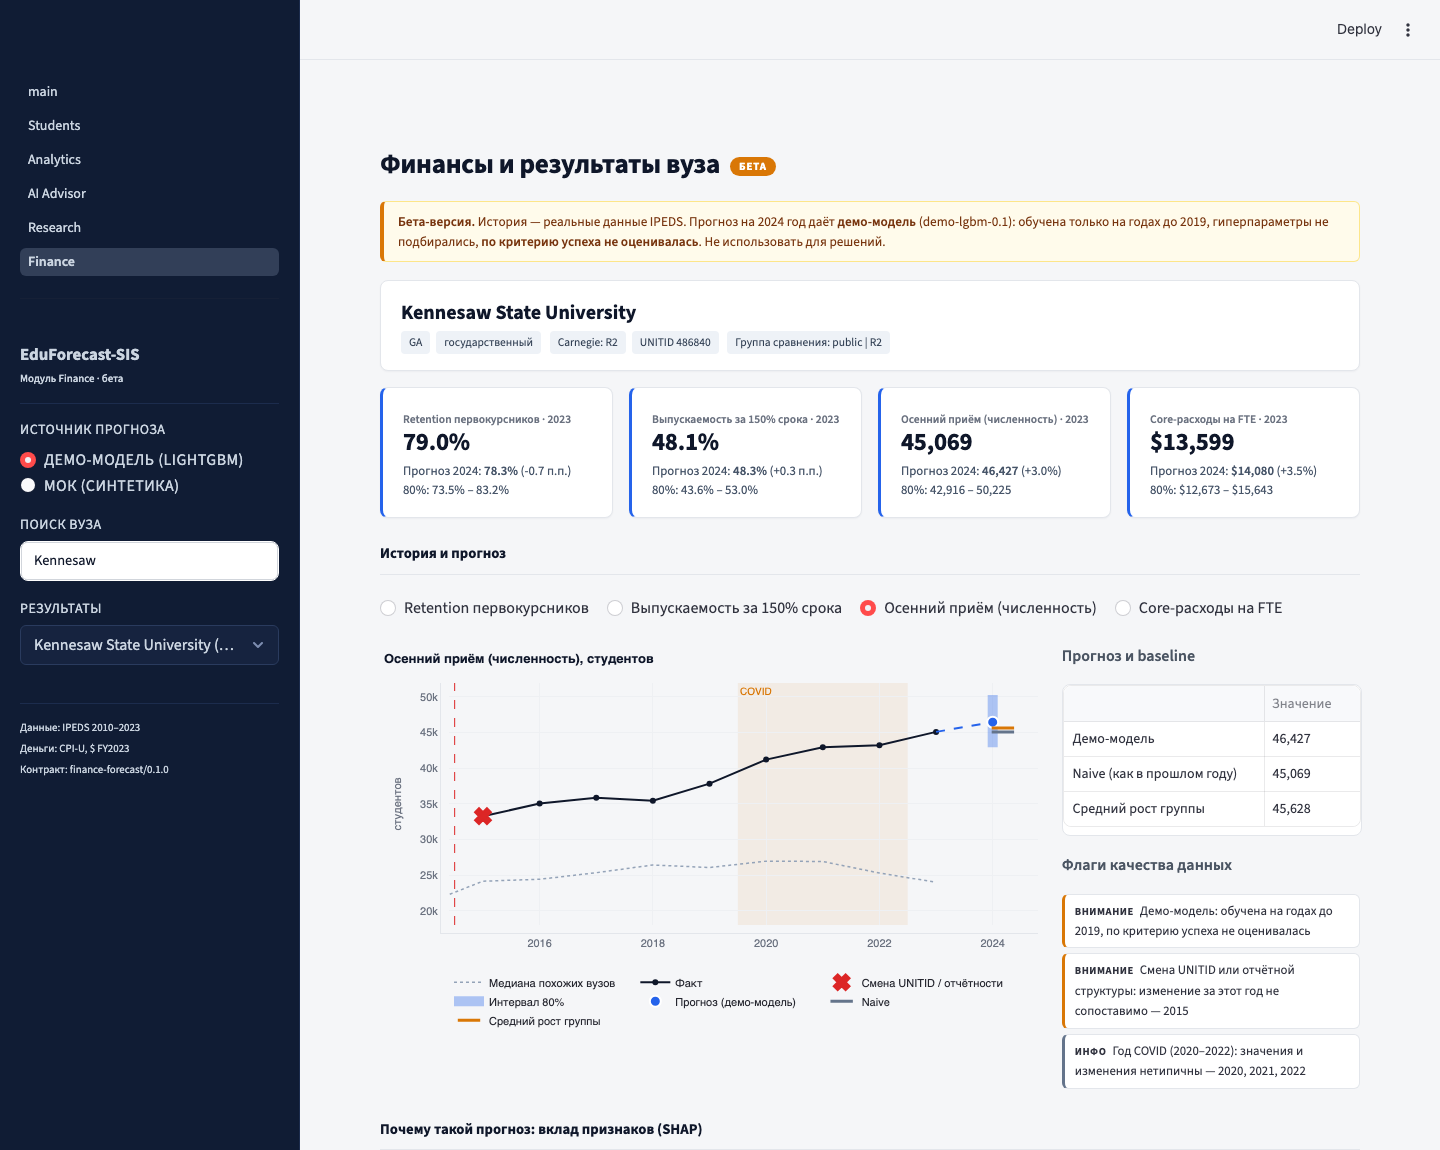
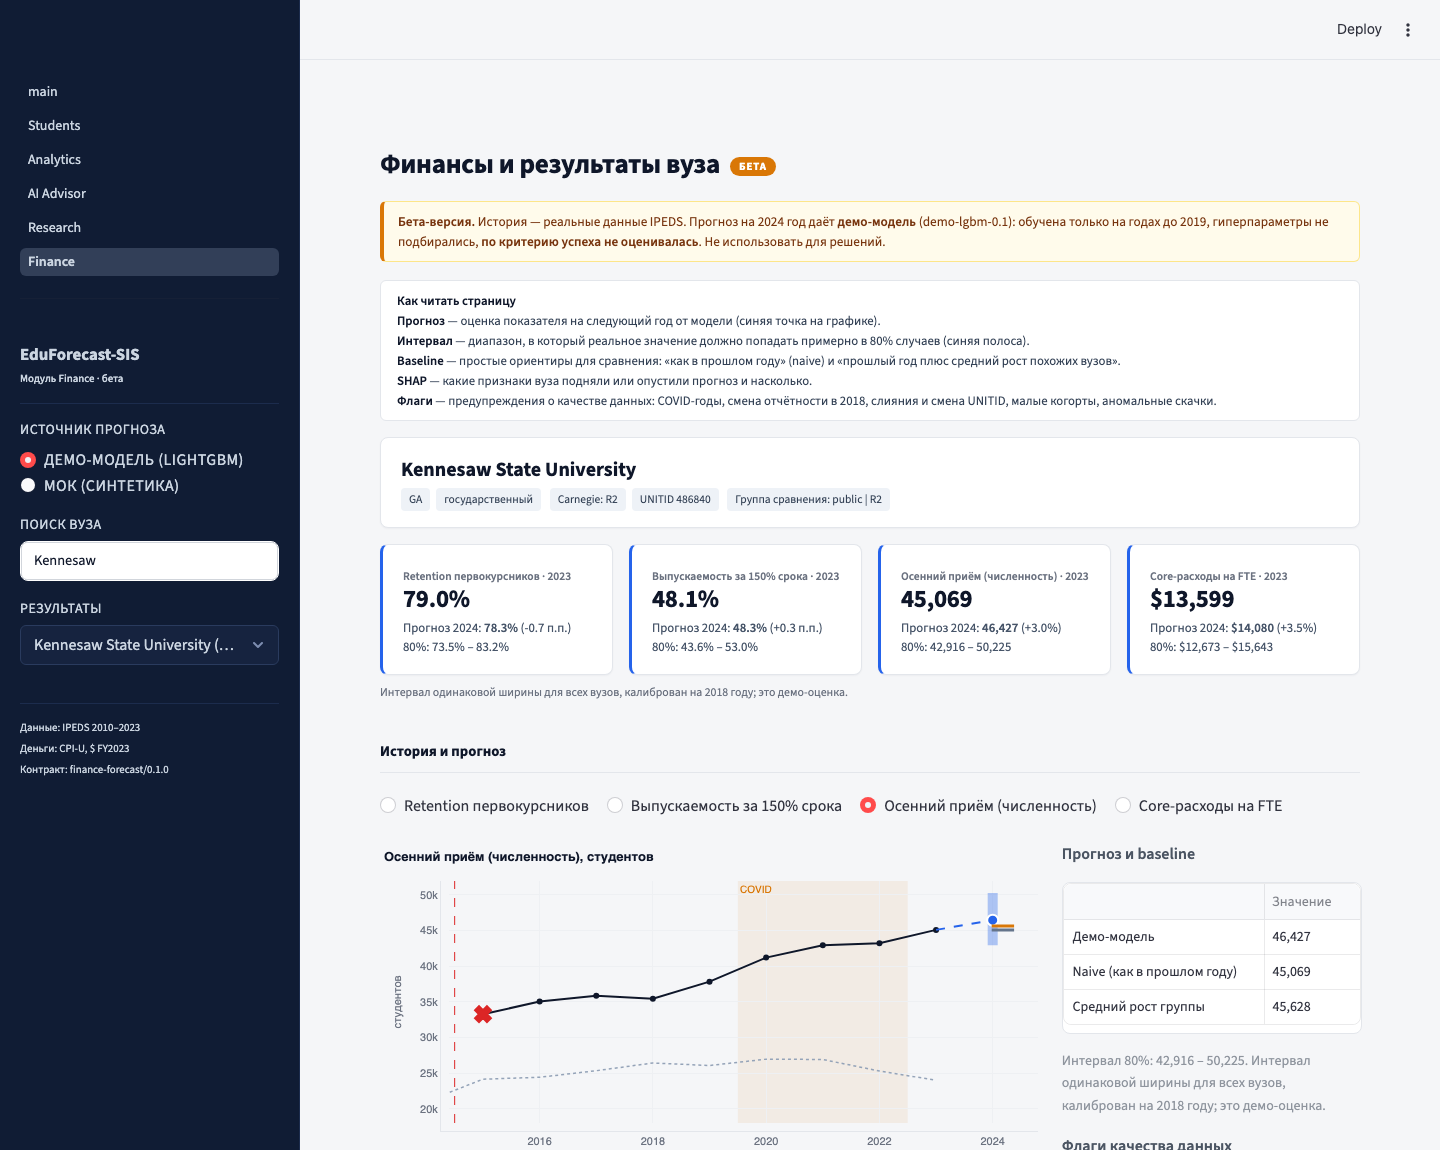
Finance beta: quick fixes (group baseline, aliases, page explanations)
- page "peer group mean growth" now calls baseline.latest_group_changes,
  the same function predictions() uses; consistency test added
- search: dictionary of 34 common abbreviations (UCLA, MIT, NYU, ...)
- "How to read this page" block, interval-width note next to intervals,
  plain-language SHAP caption; escape $ in interval caption
- screenshots in docs/finance_beta refreshed, alias search added

diff --git a/app/pages/05_Finance.py b/app/pages/05_Finance.py
@@ -30,6 +30,10 @@ st.markdown("""
 .flag-info { border-left:3px solid #64748b; } .flag-warning { border-left:3px solid #d97706; }
 .flag-critical { border-left:3px solid #dc2626; }
 .sev { font-weight:700; font-size:0.66rem; letter-spacing:0.05em; margin-right:6px; }
+.howto { background:#ffffff; border:1px solid #e3e6eb; border-radius:6px; padding:10px 16px; margin:0 0 16px 0;
+         font-size:0.8rem; color:#334155; line-height:1.55; }
+.howto b { color:#0f172a; }
+.iv-note { font-size:0.74rem; color:#6b7280; margin:-6px 0 14px 0; }
 </style>
 """, unsafe_allow_html=True)
 
@@ -77,6 +81,17 @@ else:
                 f'{response["horizon_year"]} год даёт <b>демо-модель</b> ({prov["model_version"]}): обучена только на '
                 f'годах до 2019, гиперпараметры не подбирались, <b>по критерию успеха не оценивалась</b>. '
                 f'Не использовать для решений.</div>', unsafe_allow_html=True)
+st.markdown("""
+<div class="howto"><b>Как читать страницу</b><br>
+<b>Прогноз</b> — оценка показателя на следующий год от модели (синяя точка на графике).<br>
+<b>Интервал</b> — диапазон, в который реальное значение должно попадать примерно в 80% случаев (синяя полоса).<br>
+<b>Baseline</b> — простые ориентиры для сравнения: «как в прошлом году» (naive) и «прошлый год плюс средний рост похожих вузов».<br>
+<b>SHAP</b> — какие признаки вуза подняли или опустили прогноз и насколько.<br>
+<b>Флаги</b> — предупреждения о качестве данных: COVID-годы, смена отчётности в 2018, слияния и смена UNITID, малые когорты, аномальные скачки.
+</div>""", unsafe_allow_html=True)
+IV_NOTE = ("Интервал синтетический (мок)." if prov["is_mock"] else
+           "Интервал одинаковой ширины для всех вузов, калиброван на 2018 году; это демо-оценка.")
+
 if contract_errors:
     st.error("Ответ не соответствует контракту: " + "; ".join(contract_errors[:3]))
 
@@ -111,6 +126,8 @@ for col, t in zip(cols, targets.values()):
           <div class="metric-delta" style="color:#475569; line-height:1.5;">{delta}</div>
         </div>""", unsafe_allow_html=True)
 
+st.markdown(f'<div class="iv-note" style="margin-top:8px;">{IV_NOTE}</div>', unsafe_allow_html=True)
+
 st.markdown('<div class="section-title">История и прогноз</div>', unsafe_allow_html=True)
 selected = st.radio("Показатель", list(targets), format_func=lambda k: targets[k]["label"], horizontal=True,
                     key="fin_target", label_visibility="collapsed")
@@ -131,6 +148,10 @@ with right:
     if rows:
         st.dataframe(pd.DataFrame([(n, fmt_value(v, block["unit"])) for n, v in rows], columns=["", "Значение"]),
                      hide_index=True, use_container_width=True)
+        if block["forecast"]:
+            iv = block["forecast"]["interval"]
+            st.caption(f"Интервал {int(iv['level'] * 100)}%: {fmt_value(iv['lower'], block['unit'])} – "
+                       f"{fmt_value(iv['upper'], block['unit'])}. {IV_NOTE}".replace("$", "\\$"))
     else:
         st.caption(block["ineligible_reason"])
     st.markdown("**Флаги качества данных**")
@@ -146,9 +167,14 @@ with right:
 st.markdown('<div class="section-title">Почему такой прогноз: вклад признаков (SHAP)</div>', unsafe_allow_html=True)
 if block["explanation"]:
     ex = block["explanation"]
-    st.caption(f"Метод: {ex['method']}. Модель прогнозирует изменение за год; столбцы показывают, как каждый признак "
-               f"сдвигает прогноз изменения от среднего по обучающей выборке. Итог: "
-               f"{change_text(ex['prediction'], ex['scale'])}")
+    units = ("процентных пунктах (п.п.)" if ex["scale"] == "percentage_points" else
+             "процентах роста за год (приближённо)")
+    st.caption(
+        "Как читать: модель прогнозирует, на сколько показатель изменится за год. Нижний синий столбик — "
+        "среднее изменение по всем вузам в обучающих данных; каждый следующий столбик — один признак этого вуза: "
+        "зелёный поднимает прогноз, красный опускает, длина — насколько. Верхний синий столбик — итоговый прогноз "
+        f"изменения ({change_text(ex['prediction'], ex['scale'])}). Значения на столбиках — в {units}. "
+        f"Метод: {ex['method']}.")
     st.plotly_chart(shap_waterfall(ex), use_container_width=True, config={"displayModeBar": False})
 else:
     st.info(f"Для этого показателя прогноз не строится: {block['ineligible_reason']}")

diff --git a/src/finance/api/providers.py b/src/finance/api/providers.py
@@ -6,6 +6,7 @@ import numpy as np
 import pandas as pd
 
 from src.finance.api import demo_model
+from src.finance.baseline import latest_group_changes
 from src.finance.api.contract import CONTRACT_VERSION, TARGET_META, flag
 from src.finance.api.features import FEATURE_LABELS, FEATURES, build_frame, target_frame
 from src.finance.config import PANEL_PATH, YEAR_MAX, YEAR_MIN
@@ -18,6 +19,26 @@ COHORT_COLUMN = {"retention_rate": "retention_cohort", "grad_rate_150": "grad_co
 OUTLIER_CHANGE = {"percentage_points": 20.0, "log_ratio": 0.5}
 DATA_VINTAGE = {"source": "IPEDS Complete Data Files (NCES), выгрузка 2026-10-09", "first_year": YEAR_MIN,
                 "last_year": YEAR_MAX, "price_base": f"CPI-U, доллары FY{PRICE_BASE_FY}"}
+
+
+ALIASES = {
+    "ucla": "University of California-Los Angeles", "ucb": "University of California-Berkeley",
+    "uc berkeley": "University of California-Berkeley", "ucsd": "University of California-San Diego",
+    "ucd": "University of California-Davis", "uci": "University of California-Irvine",
+    "mit": "Massachusetts Institute of Technology", "nyu": "New York University",
+    "usc": "University of Southern California", "unc": "University of North Carolina at Chapel Hill",
+    "uva": "University of Virginia-Main Campus", "uiuc": "University of Illinois Urbana-Champaign",
+    "ut austin": "The University of Texas at Austin", "umich": "University of Michigan-Ann Arbor",
+    "georgia tech": "Georgia Institute of Technology-Main Campus", "cmu": "Carnegie Mellon University",
+    "caltech": "California Institute of Technology", "penn state": "Pennsylvania State University-Main Campus",
+    "osu": "Ohio State University-Main Campus", "asu": "Arizona State University Campus Immersion",
+    "tamu": "Texas A & M University-College Station", "virginia tech": "Virginia Polytechnic Institute and State University",
+    "lsu": "Louisiana State University and Agricultural & Mechanical College", "umd": "University of Maryland-College Park",
+    "uw-madison": "University of Wisconsin-Madison", "umn": "University of Minnesota-Twin Cities",
+    "fsu": "Florida State University", "uf": "University of Florida", "byu": "Brigham Young University",
+    "rpi": "Rensselaer Polytechnic Institute", "upenn": "University of Pennsylvania", "jhu": "Johns Hopkins University",
+    "ucf": "University of Central Florida", "uw": "University of Washington-Seattle Campus",
+}
 
 
 class Provider(Protocol):
@@ -39,20 +60,21 @@ class FinanceRepository:
         self.panel = panel if panel is not None else pd.read_parquet(PANEL_PATH)
         self.frame = build_frame(self.panel)
         self.targets = {t: target_frame(self.frame, t) for t in TARGETS}
+        self.group_changes = {t: latest_group_changes(self.panel, t) for t in TARGETS}
         latest = self.frame.sort_values("year").groupby("series_id").tail(1)
         self.directory = latest[["series_id", "unitid", "name", "state", "control_label", "carnegie_group",
                                  "peer_group", "year"]].rename(columns={"year": "last_year"}).reset_index(drop=True)
         self.directory["first_year"] = self.directory["series_id"].map(self.frame.groupby("series_id")["year"].min())
 
     def search(self, query: str, limit: int = 20) -> list[dict]:
-        q = query.strip().lower()
-        d = self.directory
+        q = " ".join(query.strip().lower().split())
+        d = self.directory.assign(_alias=self.directory["name"] == ALIASES.get(q))
         if q:
-            mask = d["name"].str.lower().str.contains(q, regex=False) | (d["state"].str.lower() == q)
+            mask = d["name"].str.lower().str.contains(q, regex=False) | (d["state"].str.lower() == q) | d["_alias"]
             if q.isdigit():
                 mask |= (d["unitid"] == int(q)) | (d["series_id"] == int(q))
             d = d[mask]
-        d = d.sort_values(["last_year", "name"], ascending=[False, True]).head(limit)
+        d = d.sort_values(["_alias", "last_year", "name"], ascending=[False, False, True]).head(limit)
         return [{"series_id": int(r.series_id), "unitid": int(r.unitid), "name": r.name, "state": r.state,
                  "control": r.control_label, "carnegie_group": r.carnegie_group, "first_year": int(r.first_year),
                  "last_year": int(r.last_year)}
@@ -198,7 +220,7 @@ class DemoProvider:
                          "upper": _to_level(last_value, change + q, scale),
                          "method": "split conformal (|остаток| на 2018 году)"},
         }
-        group_change = _num(last["group_change"])
+        group_change = _num(self.repo.group_changes[target].get((last["peer_group"], int(last["year"]))))
         block["baselines"] = [
             {"name": "naive", "value": last_value},
             {"name": "peer_group_mean_growth",

diff --git a/tests/test_finance_group_baseline.py b/tests/test_finance_group_baseline.py
@@ -1,0 +1,48 @@
+import numpy as np
+import pandas as pd
+
+from src.finance.api.providers import DemoProvider
+from src.finance.baseline import latest_group_changes, predictions
+from src.finance.config import PANEL_PATH, YEAR_MAX
+from src.finance.criterion import TARGETS
+
+
+def test_predictions_use_shared_group_changes():
+    panel = pd.read_parquet(PANEL_PATH)
+    for target in TARGETS:
+        groups = latest_group_changes(panel, target)
+        p = predictions(panel, target)
+        p = p[p["year"] == YEAR_MAX]
+        expected = [groups[(g, YEAR_MAX - 1)] for g in p["peer_group"]]
+        assert np.allclose(p["pred_group"] - p["z_prev"], expected), target
+
+
+def test_page_baseline_matches_baseline_module():
+    provider = DemoProvider()
+    panel = provider.repo.panel
+    rng = np.random.default_rng(0)
+    ids = [h["series_id"] for h in provider.search("", limit=5000)]
+    checked = 0
+    for sid in rng.choice(ids, 60, replace=False):
+        response = provider.forecast(int(sid))
+        group = response["institution"]["peer_group"]
+        for block in response["targets"]:
+            if not block["forecast"]:
+                continue
+            target = block["target"]
+            naive = next(b["value"] for b in block["baselines"] if b["name"] == "naive")
+            page = next(b["value"] for b in block["baselines"] if b["name"] == "peer_group_mean_growth")
+            change = latest_group_changes(panel, target).get((group, YEAR_MAX))
+            if change is None or page is None:
+                continue
+            kind = TARGETS[target]["kind"]
+            expected = naive * np.exp(change) if kind == "log" else min(100.0, max(0.0, naive + change))
+            assert np.isclose(page, expected), (sid, target, page, expected)
+            checked += 1
+    assert checked > 100
+
+
+if __name__ == "__main__":
+    test_predictions_use_shared_group_changes()
+    test_page_baseline_matches_baseline_module()
+    print("ok")

diff --git a/src/finance/baseline.py b/src/finance/baseline.py
@@ -37,13 +37,21 @@ def _series(panel: pd.DataFrame, target: str) -> pd.DataFrame:
     return s
 
 
+def group_mean_changes(changes: pd.DataFrame, target: str) -> pd.Series:
+    clip = GROUP_CHANGE_CLIP[TARGETS[target]["kind"]]
+    clipped = changes.assign(change_clipped=changes["change"].clip(-clip, clip))
+    group = clipped.groupby([GROUP_COLUMN, "year"])["change_clipped"].agg(["mean", "size"])
+    return group[group["size"] >= GROUP_MIN_SIZE]["mean"].rename("group_change")
+
+
+def latest_group_changes(panel: pd.DataFrame, target: str) -> pd.Series:
+    return group_mean_changes(_series(panel, target).dropna(subset=["change"]), target)
+
+
 def predictions(panel: pd.DataFrame, target: str) -> pd.DataFrame:
     s = _series(panel, target)
     changes = s.dropna(subset=["change"]).copy()
-    clip = GROUP_CHANGE_CLIP[TARGETS[target]["kind"]]
-    changes["change_clipped"] = changes["change"].clip(-clip, clip)
-    group = changes.groupby([GROUP_COLUMN, "year"])["change_clipped"].agg(["mean", "size"])
-    group = group[group["size"] >= GROUP_MIN_SIZE]["mean"].rename("group_change")
+    group = group_mean_changes(changes, target)
     group.index = group.index.set_levels(group.index.levels[1] + 1, level=1)
 
     test = changes[changes["year"].isin([o + 1 for o in EVAL_ORIGINS])].join(group, on=[GROUP_COLUMN, "year"])

diff --git a/FINANCE_BETA.md b/FINANCE_BETA.md
@@ -98,6 +98,7 @@
 | `06_peers_ohio_state.png` | сравнение с 5 похожими вузами: столбцы (выбранный вуз выделен) и таблица |
 | `07_not_eligible_rockefeller.png` | вуз без бакалавриата: KPI «прогноз не строится», маркеры аномальных изменений в расходах |
 | `08_mock_mode.png` | мок-режим: красный баннер, флаг MOCK_DATA (critical), синтетические ряды |
+| `09_alias_search_ucla.png` | поиск по аббревиатуре «UCLA», блок «Как читать страницу», подпись про ширину интервала |
 
 Внизу страницы — раскрывающийся блок «Ответ API» с полным JSON, результатом проверки схемы и кнопкой скачивания.
 
@@ -108,10 +109,10 @@
 3. **HTTP API нет.** Контракт описан и проверяется, но страница вызывает провайдер в том же процессе. Сервер (FastAPI или аналог), версионирование URL, авторизация, rate limit не сделаны.
 4. **Интервалы упрощены.** Split conformal на одном калибровочном годе (2018), одна ширина для всех вузов: не зависит от размера вуза и волатильности ряда, не учитывает COVID-годы. Покрытие не проверялось.
 5. **Похожие вузы** — простой kNN по 5 стандартизованным показателям последнего года внутри группы «тип × Carnegie». Веса не подобраны, без учёта динамики и географии.
-6. **Средний рост группы** в baseline на странице считается отдельным кодом (`features.py`), а не `src/finance/baseline.py`. Правила те же: обрезка изменений и минимум 5 вузов в группе. Совпадение чисел тестом не проверено.
+6. ~~Средний рост группы считается отдельным кодом~~ — исправлено: страница вызывает `src/finance/baseline.py::latest_group_changes`, тот же расчёт, что в `predictions()`. Совпадение проверяет `tests/test_finance_group_baseline.py` (`python -m tests.test_finance_group_baseline`).
 7. **Горизонт** — только следующий год (2024). Сценариев «что если» и многолетнего прогноза нет.
 8. **Данные — статичный снимок IPEDS** от 2026-10-09. Обновления, планировщика и проверки свежести нет. FY2024 ещё не опубликован.
-9. **Поиск** — подстрока по названию, код штата или UNITID в локальной таблице. Без нечёткого поиска и синонимов: аббревиатуры вроде UCLA или MIT не находятся.
+9. **Поиск** — подстрока по названию, код штата, UNITID и словарь из 34 аббревиатур (`providers.py::ALIASES`: UCLA, MIT, NYU, USC, UNC, UVA, UIUC, UT Austin и др.). Нечёткого поиска нет; аббревиатуры вне словаря не находятся.
 10. **Подписи признаков в SHAP** на русском захардкожены в `features.py`, локализации нет. SHAP показан на шкале изменения, а не уровня.
 11. **Тестов** UI и провайдеров нет. Есть только проверка схемы на всех вузах (§1) и прогон сценариев Playwright для скриншотов.
 12. **Модели и панель не в git.** Нужно воспроизвести (§5). Хранилища артефактов (model registry) нет.
